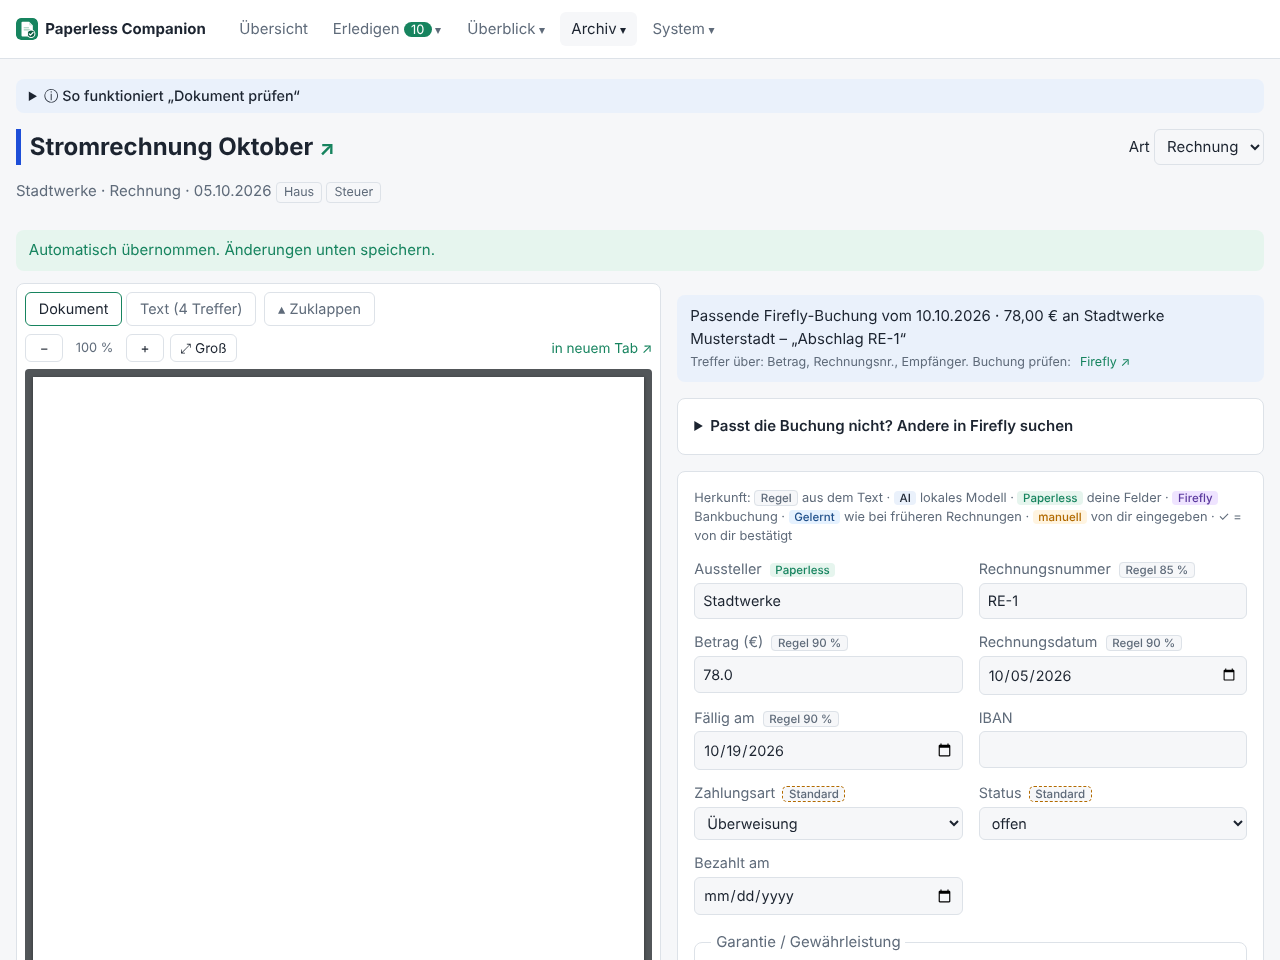
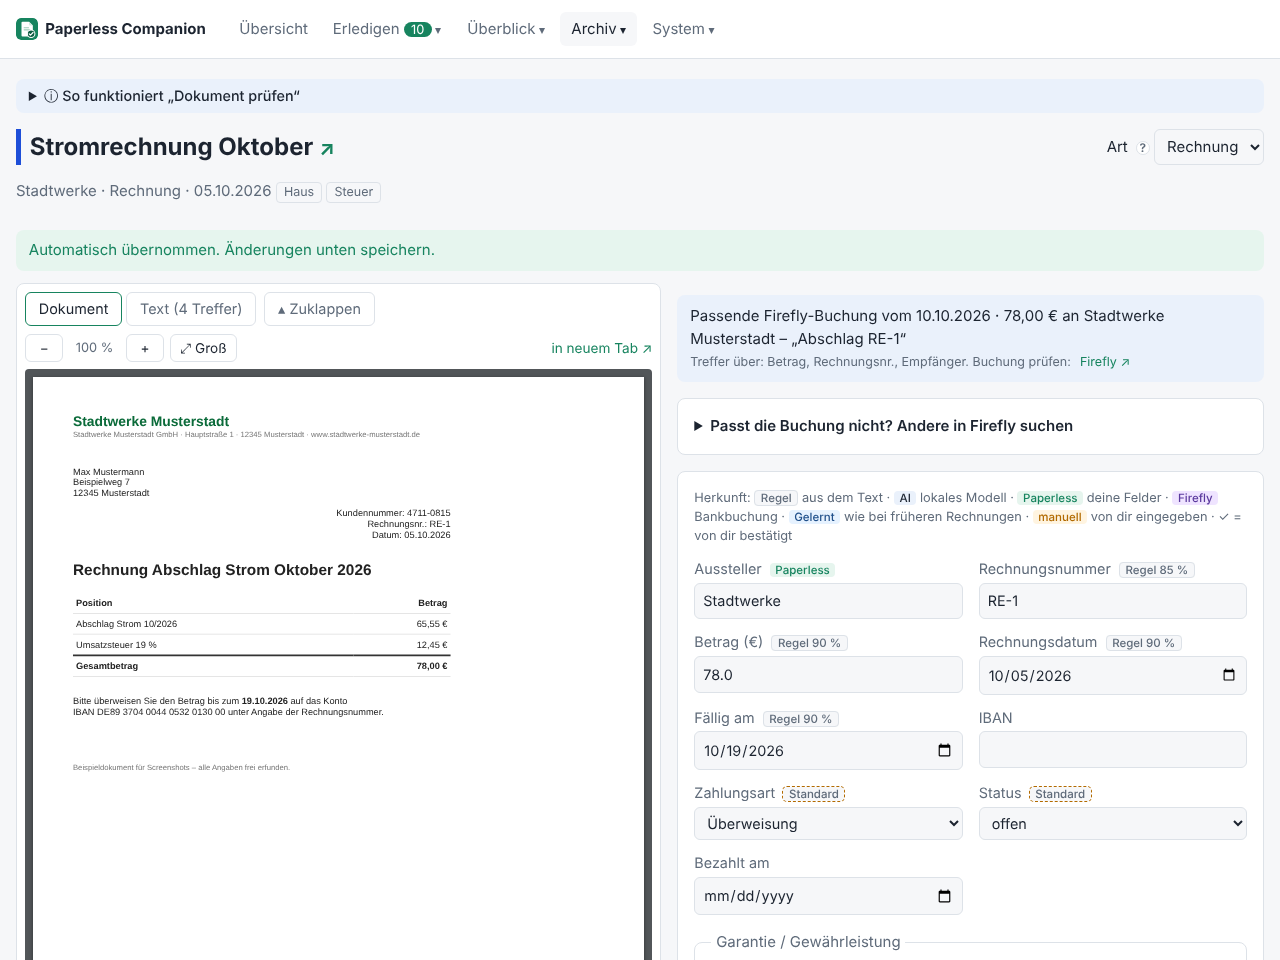
Gehaltsabrechnungen und Kontoauszüge nicht mehr als Rechnung erkennen
„Lohn-/Gehaltsabrechnung“ enthält „rechnung“ und wurde deshalb als Rechnung eingestuft.
Abrechnungen ohne Zahlungspflicht (Lohn, Gehalt, Bezüge, Kontoauszug, Kreditkarte,
Lohnsteuerbescheinigung) gelten jetzt als „Sonstiges“; Erkennung Version 3.
Hilfetext am Wahlschalter „Art“; Screenshot-Skript wartet auf die fertige Vorschau.

Claude-Session: https://claude.ai/code/session_01GZFJmjHzpJwZEudqzSRrzQ

diff --git a/app/templates/document.html b/app/templates/document.html
@@ -10,7 +10,7 @@
       {% if doc.tags %}<span class="tags">{% for t in doc.tags %}<span class="tag">{{ t }}</span>{% endfor %}</span>{% endif %}</p>
   </div>
   <form method="post" action="/documents/{{ doc.id }}/kind" class="kind-switch">
-    <label>Art
+    <label>Art {{ help("Falsch erkannt (z.B. Gehaltsabrechnung als Rechnung)? Hier die richtige Art wählen. „Sonstiges“ nimmt das Dokument aus der Prüfung; deine Wahl bleibt auch bei neuen Analysen erhalten. Paperless wird nicht geändert.") }}
       <select name="kind" onchange="this.form.submit()">
         {% for key, text in KINDS.items() %}<option value="{{ key }}" {{ 'selected' if doc.kind == key }}>{{ text }}</option>{% endfor %}
       </select>

diff --git a/app/extraction/rules.py b/app/extraction/rules.py
@@ -376,9 +376,18 @@ def extract_warranty(text: str, created: date | None = None) -> dict:
 # --------------------------------------------------------------------------- Klassifizierung
 
 
+# Abrechnungen, die keine Rechnungen sind (enthalten „…abrechnung“, sind aber nicht zu bezahlen)
+NOT_INVOICE = re.compile(
+    r"(lohn|gehalts?|entgelt|bezüge|bezuege|verdienst|besoldung|vergütungs?|renten?)\s*-?\s*(und\s+\w+\s*)?abrechnung"
+    r"|abrechnung\s+der\s+(brutto|bezüge|bezuege)|brutto\s*/\s*netto|lohnsteuerbescheinigung"
+    r"|kontoauszug|kreditkartenabrechnung|depotauszug")
+
+
 def classify_by_keywords(title: str, text: str) -> str:
     title = title.lower()
     head = text[:2500].lower()
+    if NOT_INVOICE.search(title) or NOT_INVOICE.search(head[:600]):
+        return "other"
     if re.search(r"rechnung|invoice", title):
         return "invoice"
     if re.search(r"vertrag|police|versicherungsschein", title):

diff --git a/tests/test_rules.py b/tests/test_rules.py
@@ -93,3 +93,9 @@ def test_classification():
     assert classify_by_keywords("Scan", CONTRACT) == "contract"
     assert classify_by_keywords("Scan", INVOICE) == "invoice"
     assert classify_by_keywords("Arztbrief", "Diagnose ...") == "other"
+    # Abrechnungen, die keine Rechnungen sind
+    assert classify_by_keywords("Gehaltsabrechnung März 2026", "") == "other"
+    assert classify_by_keywords("Lohn- und Gehaltsabrechnung 07/2026", "") == "other"
+    assert classify_by_keywords("Scan_0001", "Muster GmbH\nAbrechnung der Brutto/Netto-Bezüge für März 2026") == "other"
+    assert classify_by_keywords("Kreditkartenabrechnung", "Rechnungsdatum 01.03.2026") == "other"
+    assert classify_by_keywords("Nebenkostenabrechnung 2025", "") == "invoice"  # bleibt (Nachzahlung)

diff --git a/scripts/screenshots.py b/scripts/screenshots.py
@@ -197,6 +197,8 @@ def shoot(base: str) -> None:
                 ("rechnungen", "/invoices", 1280, 760), ("handy-dashboard", "/", 390, 844)]:
             p = page(width, height)
             p.goto(base + path)
+            if p.locator(".docview:not([data-lazy])").count():
+                p.wait_for_selector(".docview-canvas canvas")  # PDF fertig gezeichnet
             p.wait_for_timeout(400)
             p.screenshot(path=OUT / f"{name}.png")
             p.close()

diff --git a/app/pipeline.py b/app/pipeline.py
@@ -21,7 +21,7 @@ from app.paperless import PaperlessClient, PaperlessError
 log = logging.getLogger(__name__)
 
 # Bei Erweiterungen der Erkennung erhöhen – die Systemseite bietet dann an, betroffene Dokumente neu zu analysieren
-ANALYSIS_VERSION = 2
+ANALYSIS_VERSION = 3  # 3: Gehaltsabrechnungen/Kontoauszüge nicht mehr als Rechnung
 
 KINDS = {"invoice": "Rechnung", "contract": "Vertrag", "warranty": "Garantie", "other": "Sonstiges"}
 AUTO_THRESHOLD = 0.8
